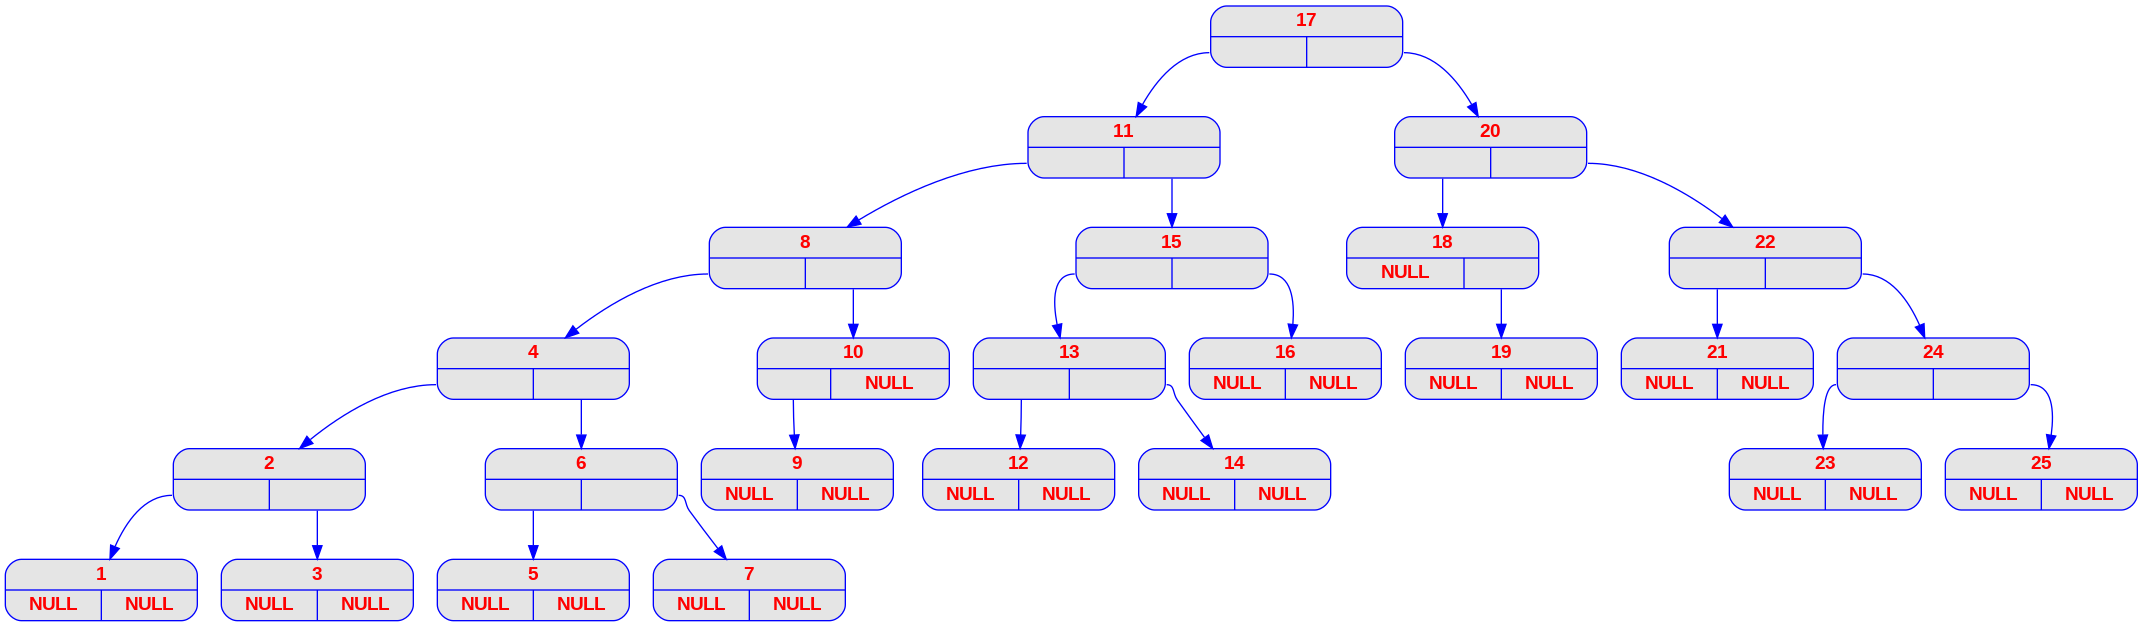
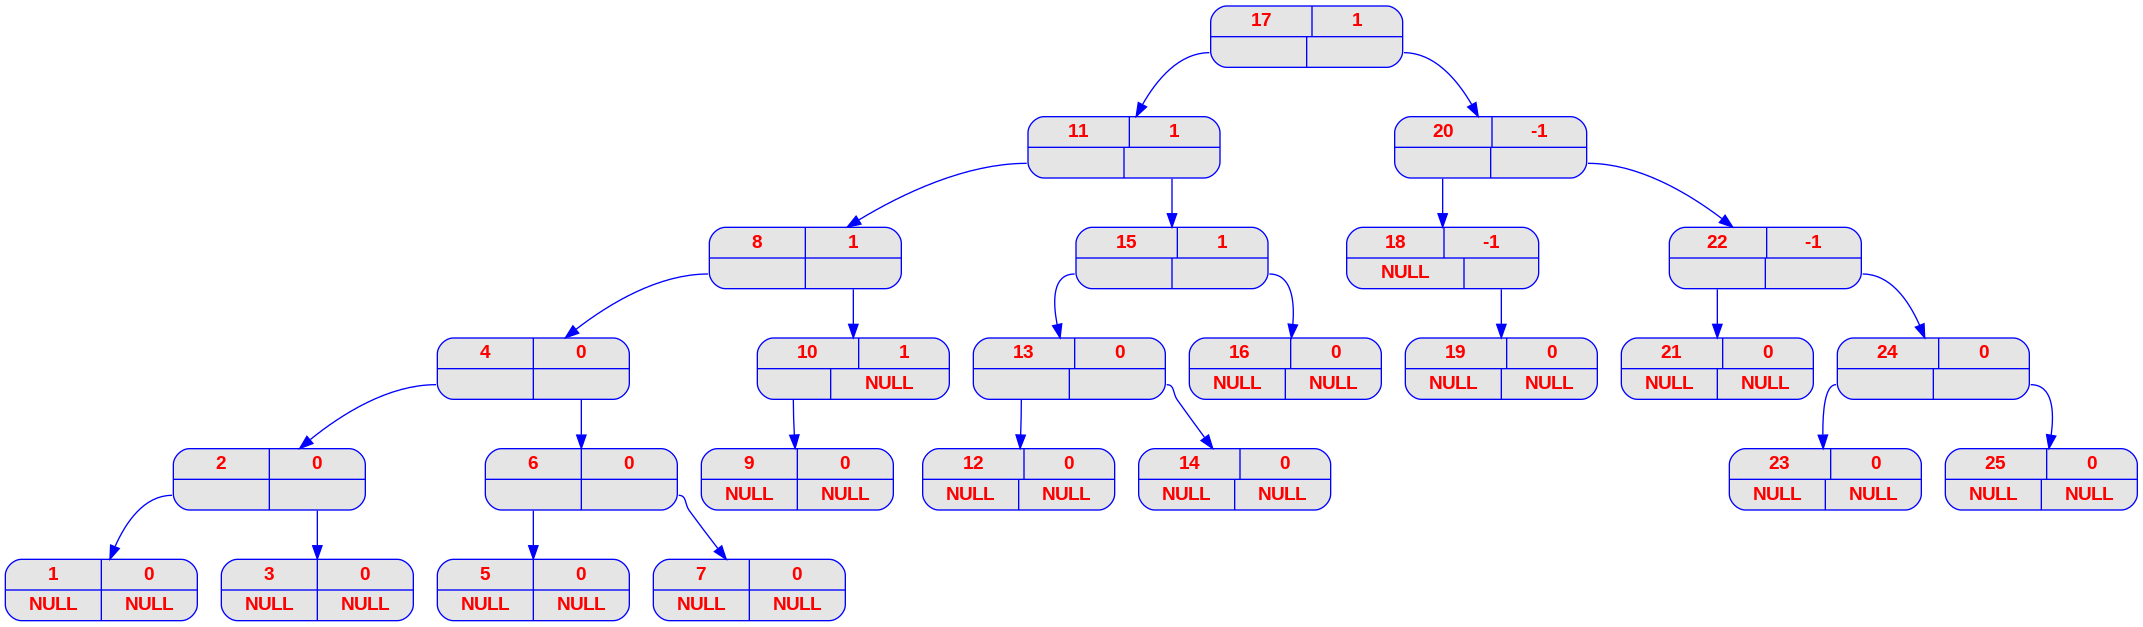
label balance

diff --git a/avl.c b/avl.c
@@ -288,18 +288,18 @@ static void  genDotAVL(T_avl root, FILE *fp) {
 	// => on ne peut pas faire deux appels à toString dans le même printf()
 
     fprintf(fp, "\t%s",toString(root->val)); 
-    fprintf(fp, " [label = \"{<c> %s | { <g> | <d>}}\"];\n",toString(root->val));
+    fprintf(fp, " [label = \"{{<c> %s | <b> %d} | { <g> | <d>}}\"];\n",toString(root->val), root->bal);
     if (root->r == NULL && root->l == NULL) {
         fprintf(fp, "\t%s", toString(root->val)); 
-		fprintf(fp, " [label = \"{<c> %s | { <g> NULL | <d> NULL}}\"];\n", toString(root->val));
+		fprintf(fp, " [label = \"{{<c> %s | <b> %d} | { <g> NULL | <d> NULL}}\"];\n", toString(root->val), root->bal);
 	}
     else if (root->r == NULL) {
         fprintf(fp, "\t%s", toString(root->val));
-		fprintf(fp, " [label = \"{<c> %s | { <g> | <d> NULL}}\"];\n", toString(root->val));
+		fprintf(fp, " [label = \"{{<c> %s | <b> %d} | { <g> | <d> NULL}}\"];\n", toString(root->val), root->bal);
 	}
 	else if ( root->l == NULL) {
         fprintf(fp, "\t%s",toString(root->val));
-		fprintf(fp, " [label = \"{<c> %s | { <g> NULL | <d> }}\"];\n", toString(root->val));
+		fprintf(fp, " [label = \"{{<c> %s | <b> %d} | { <g> NULL | <d> }}\"];\n", toString(root->val), root->bal);
 	}
 	
     if (root->l) {

diff --git a/main.c b/main.c
@@ -20,8 +20,6 @@ int main(int argc, char ** argv) {
 	/////////////////////////////////////////////////////////////////////////
 	/////////////////////////////////////////////////////////////////////////
 
-	//coucou
-
 	outputPath = "output";
 	
 	// 8, 11, 16, 5, 7, 14, 6, 1, 3, 10, 12,16
